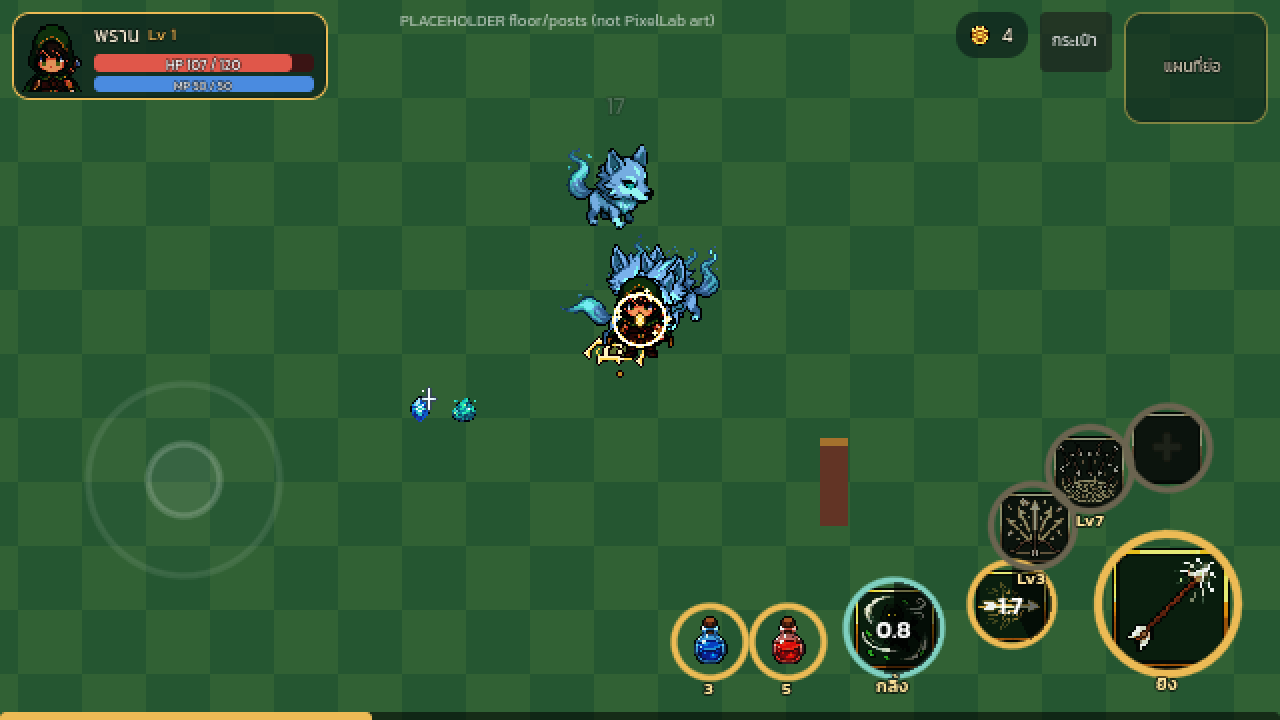
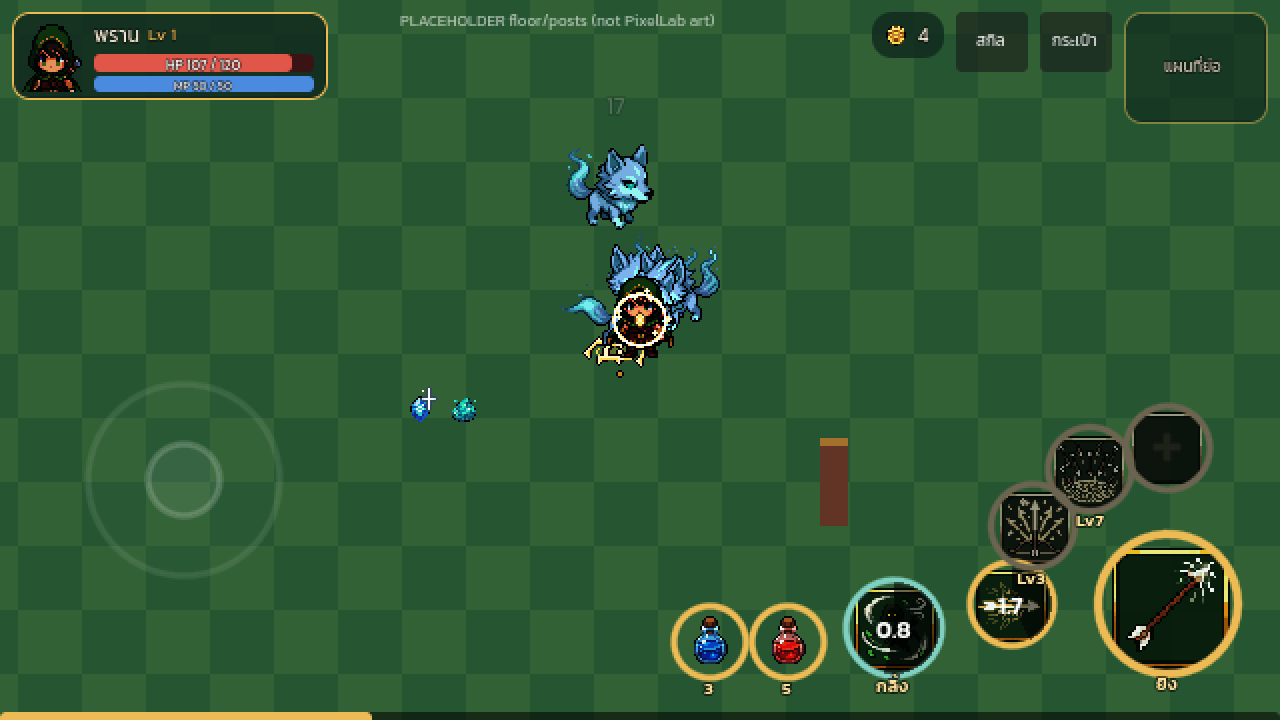
M3a Task 8: screenshots (skill screen, split piercing, status, enhance), status fx scale
Claude-Session: https://claude.ai/code/session_01Y3xh1UrjSLruRTRK75Y2Tg

Changed region(s): [[0.6562, 0.0, 0.8125, 0.1222]]

diff --git a/docs/superpowers/plans/2026-11-06-m3a-gems-enhance.md b/docs/superpowers/plans/2026-11-06-m3a-gems-enhance.md
@@ -158,7 +158,7 @@
 - Create: `tests/screenshots_m3a.gd`, `docs/preview/m3a_*.png`
 - Modify: this plan (checkboxes), `docs/pixellab-budget.md` (0 gen lines for the effects)
 
-- [ ] **Step 1:** Shots: skill screen with a socketed gem · piercing + แยกศร three lines · burn / frost / chain on wolves · enhance safe and risky · bag name with +N. Look at each.
-- [ ] **Step 2:** `python3 tools/test_assets.py` PASS · full suite 0 failed · `touch_check.gd` PASS · M2a/M2b/M2c/M3a screenshot scripts rc=0.
-- [ ] **Step 3:** Push `m3a/gems-enhance`, draft PR to `main` with commands, SHA, counts, tagged Thai summary.
+- [x] **Step 1:** Shots: skill screen with a socketed gem · piercing + แยกศร three lines · burn / frost / chain on wolves · enhance safe and risky · bag name with +N. Look at each.
+- [x] **Step 2:** `python3 tools/test_assets.py` PASS · full suite 0 failed · `touch_check.gd` PASS · M2a/M2b/M2c/M3a screenshot scripts rc=0.
+- [x] **Step 3:** Push `m3a/gems-enhance`, draft PR to `main` with commands, SHA, counts, tagged Thai summary.
 - [ ] **Step 4:** Fresh reviewer on the branch; fix findings with regression tests; report to the owner in Thai with group tags.
